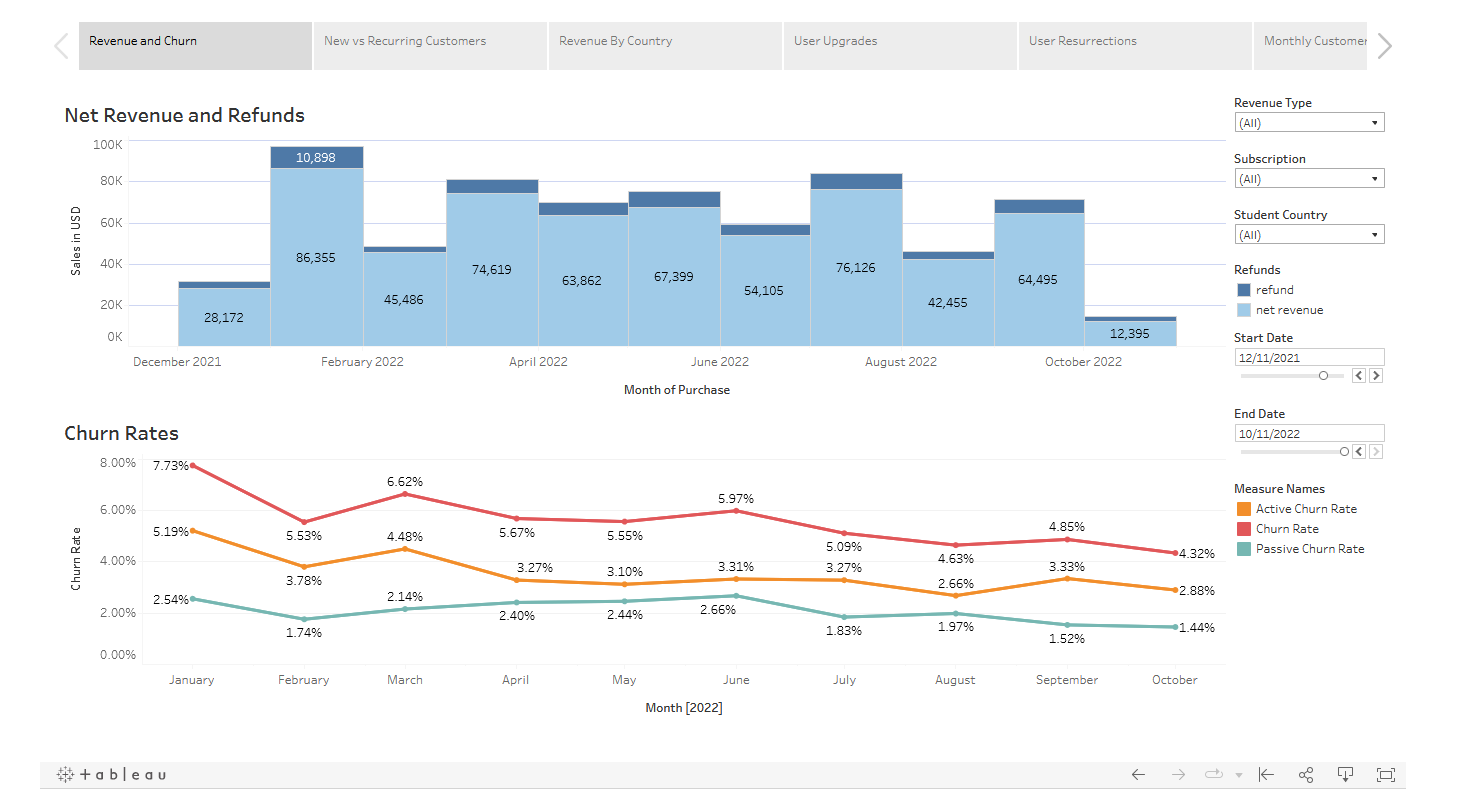
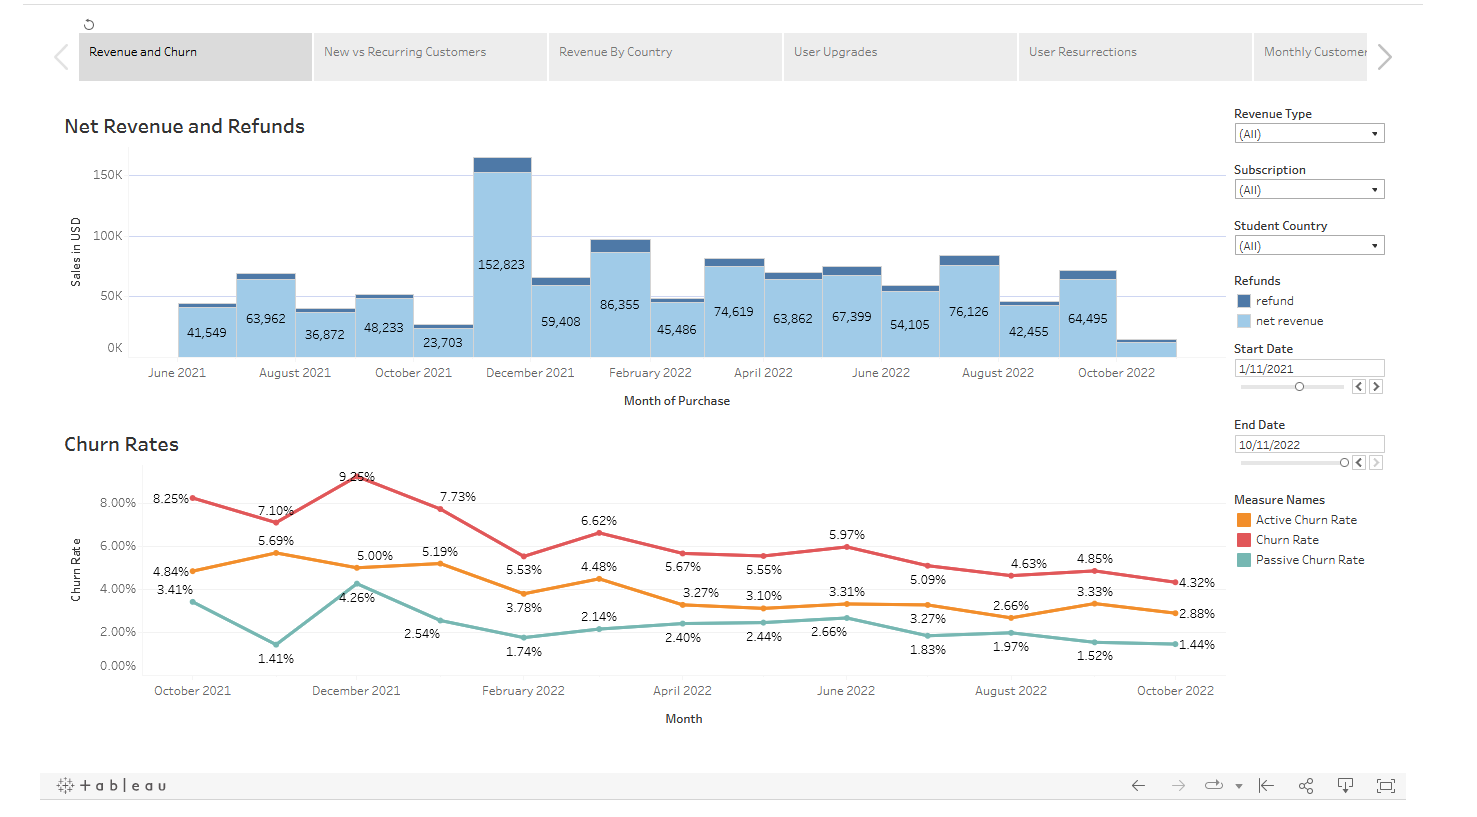
Updating Readme and image

diff --git a/README.md b/README.md
@@ -1,1 +1,76 @@
-# 365_churn_analysis_tableau
+# Customer Churn Analysis Using Tableau
+## Motivation
+This was a guided project based off of 365 Data Science data. The goal was to create a multi functional dashboard based on customer data from the 365 Data Science Platform. 
+
+## Data Tools
+The queries can be done in MySQL and the data could also be downloaded from their website if you are a subscriber. This project opted to download the CSV files directly and create the dashboard in Tableau. The data is also included into this repository as the downloaded data acquired from link comes from the website.
+
+## Data Understanding
+There were Dashboard created for each of these categories:
+
+- Revenue and Churn
+- New vs Recurring Customers
+- Revenue By Country
+- User Upgrades
+- User Resurrections
+- Monthly Customer Retention
+- Annual Customer Retention
+
+### <b> Revenue and Churn </b>
+![](images/revenue_and_churn.png)
+
+Revenue is the money generated from normal business operations. In this case, the primary focus is Net Revenue. Net Revenue is defined in this case as Gross Revenue (total revenue generated from consumers) minus Cost of Goods Sold (COGS) and Expenses.
+
+Churn is when a consumer discontinues their subscriptions with a company. (in this case, this platform is a subscription platform)
+
+NOTE: a Refund does not always imply churn. Some consumers may get a refund for a multitude of reasons and still proceed on with a company's services.
+#### <b> Observations </b>
+
+#### <b> Bar Chart </b>
+- In November of 2021, there was a massive spike in Net Revenue. One thing to note is that during this period a promotion for Black Friday could have set this spike into motion. 
+- October 2021, there was a lot less revenue as well which may have seemed like a cause for concern but when looking forward or back a year, it is within range for the normal amounts of revenue for that month. 
+#### <b> Line Chart </b>
+- The churn rather over time has actually decreased. This means thgat customers have been satisfied with the product and find value in what the platform provides.
+- Active churn rates are higher than passive churn rates so it may be area of focus if the strategy shifts to focusing on active churned customers. Surveys can be given to those customers to get a clear understanding on why they are leaving the platform.
+
+&nbsp;
+
+### <b> User Resurrections </b>
+![](images/user_resurrections.png)
+
+When bringing back a customer, it could be crucial to understand how many customers a company is bring back and how long did it take for them to comes back. This business operates primarily on monthly and annual subscriptions.
+
+#### <b> Observations </b>
+- From February 2021 to October 2022, they were able to bring back a total of 433 students. The highest re-acquired in a month was June 2022 at 50 students and the lowest in Feburary 2021 with 2 students. This could have been due to promotional improvements over time.
+
+- The average amount of days in which it takes for a student to come back is 122.7 days. Since this number is a combination of both annual and monthly reacquisitions with roughly more than 50% coming back from an annual subscription, it can be seen as reasonable.
+
+-  The majority that came back had the annual plan as their original plan. They could imply the demographic for retargeting.
+
+&nbsp;
+
+### <b> Monthly Cohorts </b>
+![](images/monthly_cohorts.png)
+
+Cohort Analysis provides valuable insights into the performance and behavior of different groups of customers or users over time.
+
+#### <b> Observations </b>
+- Customer retention rates after the first month of acquisition vary between approximately 50% to 62%. This range indicates that there is a mix of cohorts with different engagement levels.
+
+- the February cohort demonstrated robust retention during period 2, consistently staying in the 50% range.
+
+    - NOTE: The customers who stayed for period 2 does not necessarily all from period 1. It is important to understand that as long as someone in the cohort makes a purchase in a given month after their acquisition month, they will be added to that specific period.
+Example: If someone was acquired in Jan-2022 but skipped Feb-2022 and proceeded in Mar-2022, they would appear in Jan and Mar but not Feb.
+
+-  This analysis suggests that some cohort members could have transitioned from monthly plans to annual plans. The cohort members might have been offered incentives or discounts for annual subscriptions, motivating them to make the switch.
+
+
+&nbsp;
+
+## If you'd like to dive further in and see the dashboard, it is linked here: 
+[Interactive Dashboard](https://public.tableau.com/app/profile/jonathan.roman/viz/365_customer_churn_16902974664830/CustomerChurnStory?publish=yes)
+
+
+## References
+
+[Customer Churn Analysis with Tableay | 365 Data Science - Elitsa Kaloyanova](https://365datascience.com/)
